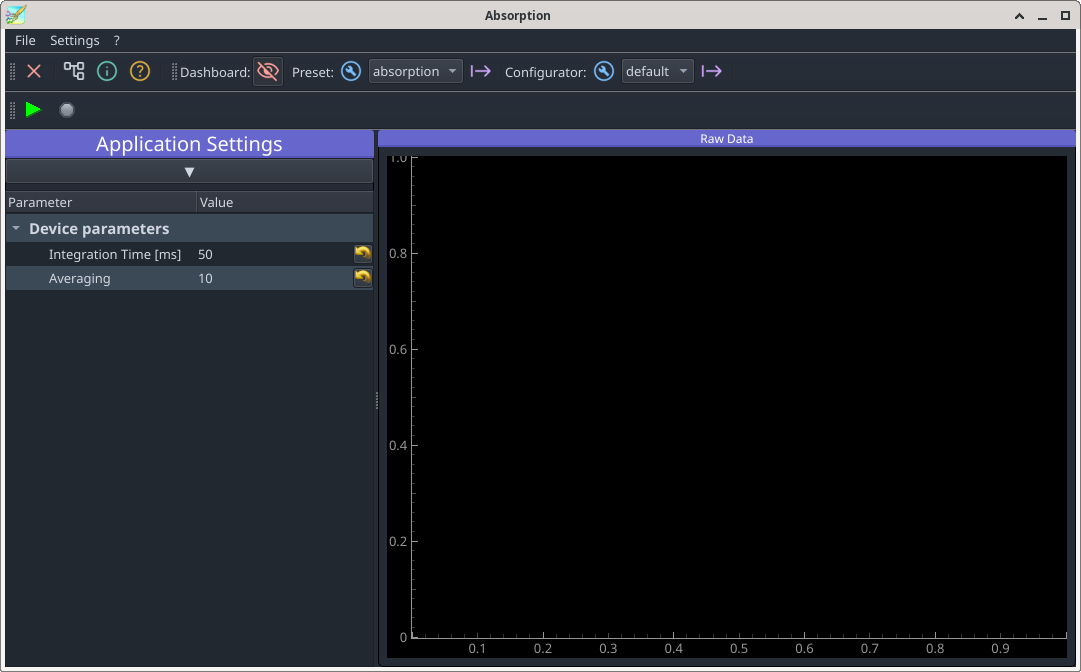
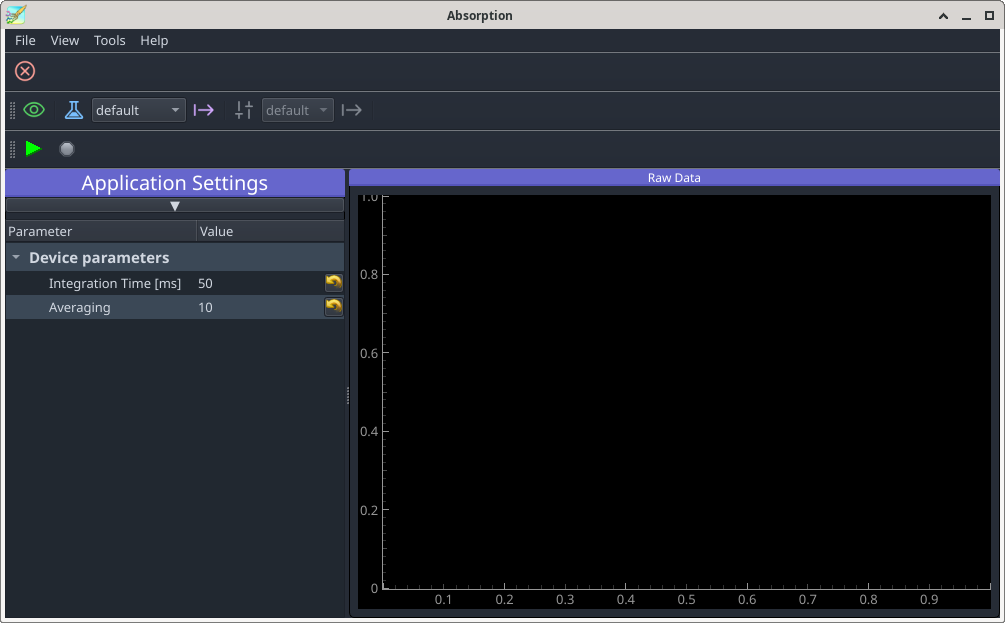
extension plugin finished

Changed region(s): [[0.0, 0.0, 1.0, 1.0]]

diff --git a/source/extension.rst b/source/extension.rst
@@ -204,14 +204,11 @@ Note that this introduces a bug. The dasboard is of course not aware of the func
 
 You may have noticed while playing around with the extension that it opens up with a size which is not very suitable. And changes to the window are not preserved over quitting the dashboard. Let's make changes so that the GUI geometry stays permanently. Two functions, inverse of each other, take care of writing the current parameter values and geometry settings to a configuration file and reading them back. This is done here in a preliminary fashion using Qt's settings mechanism. **@PyMoDAQxperts:** please replace this with more PyMoDAQonian style ...
 
-
 .. code-block::
 
     def write_settings(self, qt_settings):
         qt_settings.setValue("geometry", self.mainwindow.saveGeometry())
         qt_settings.setValue("dockarea", self.dockarea.saveState())
-        for name in self.settings_entries:
-            qt_settings.setValue(name, self.settings[name])
 
    def read_settings(self, qt_settings):
         geometry = self.qt_settings.value("geometry", QByteArray())
@@ -224,16 +221,14 @@ You may have noticed while playing around with the extension that it opens up wi
                 # erease inconsistent settings in case pyqtgraph trips
                 self.qt_settings.setValue("dockarea", None)
 
-        for name in self.settings_entries:
-            value = qt_settings.value(name, None)
-            if value is not None:
-                self.settings[name] = value
-
 To make this work, the two functions have to be hooked up into the initialisation and shut down procedures.
 
 .. code-block::
-   :emphasize-lines: 4-7,9-
+   :emphasize-lines: 1,2,7-10,12-
 
+    from qtpy.QtCore import QSettings, QByteArray
+    from pymodaq_utils.config import Config, ConfigError, get_set_config_dir
+    ...
     def __init__(self, parent: gutils.DockArea, dashboard):
         ...
         self.setup_ui()
@@ -245,17 +240,17 @@ To make this work, the two functions have to be hooked up into the initialisatio
     def quit_fun(self):
         self.write_settings(self.qt_settings)
 
-The first of the newly introduced lines in the init method returns a path to a subfolder :file:`gui-state` located in the user's PyMoDAQ configuration folder. If that subfolder doesn't exist yet it is created. GUI settings can go in there now. Have a try, resizing the extension window should now persist over shutting down and restarting the extension and the dashboard.
+The first of the newly introduced lines in the init method returns a path to a subfolder :file:`gui-state` located in the user's PyMoDAQ configuration folder. If that subfolder doesn't exist yet it is created. GUI settings can go in there now. Have a try, resizing the extension window should now persist over shutting down and restarting the extension and the dashboard. Note that this geometry sub-section may not be necessary in future versions of PyMoDAQ. An ongoing pull request may incorporate the feature into the custom app base class.
 
-The paramaters controlling the spectrometer are all accessible in the experiment and could be changed via the detector's widget in the dashboard. However, to ease operating the device, a set of most important parameters shall be displayed in the main window of the spectrometer application. They are declared in the preamble of the extension class in the same fashion as device parameters in the preamble of a plugin class. All parameters defined in :code:`params[]` are avaliable in :code:`self.settings_tree`.
+:code:`tag geometry`
+
+The paramaters controlling the spectrometer are all accessible in the experiment configuration and could be changed via the detector's widget in the dashboard, or using the configurator (try this out yourself as an exercice). However, to ease operation, a set of most important parameters shall be displayed in the main window of the spectrometer application. They are declared in the preamble of the extension class in the same fashion as device parameters in the preamble of a plugin class. All parameters defined in :code:`params[]` are made avaliable in :code:`self.settings_tree` by PyMoDAQ's start-up machinery.
 
 .. code-block::
-   :emphasize-lines: 23-25
+   :emphasize-lines: 3-14,19-21,25-
 
     class Absorption(CustomExt):
-
         ...
-
         params = [
             {'name': 'device_params', 'title': 'Device parameters', 'type': 'group',
              'children': [
@@ -268,9 +263,7 @@ The paramaters controlling the spectrometer are all accessible in the experiment
                ]
              },
            ]
-
         ...
-
         def setup_docks(self):
             self.create_dashboard_toolbar()
 
@@ -279,17 +272,18 @@ The paramaters controlling the spectrometer are all accessible in the experiment
             self.docks['settings'].addWidget(self.settings_tree)
 
             self.spectrum_label = DockLabel("Raw Data")
-            ...
+            spectrum_dock = Dock('Data', label=self.spectrum_label)
+            self.docks['spectrum'] = \
+                self.dockarea.addDock(spectrum_dock, "right",
+                                      self.docks['settings'])
 
-To make the detector aware of parameter changes, another predefined method has to be populated
+The newly introduced dock holds a parameter tree containing what has been defined in :code:`params`. Note the change in placing the data viewer at the right of the parameter dock. To make the detector aware of parameter changes, another predefined method has to be populated
 
 .. code-block::
-   :emphasize-lines: 6-
+   :emphasize-lines: 4-
 
     class Absorption(CustomExt):
-
     ...
- 
         def value_changed(self, param):
             if param.name() == "integration_time":
                 self.detector.settings.child('detector_settings',
@@ -309,18 +303,24 @@ The Absorption extension should now look like
 The parameter ``Average`` has not yet any effect. Let's change that. 
 
 .. code-block::
-   :emphasize-lines: 7-20,25,26,29-
+   :emphasize-lines: 1,3,8,9,13-28,30-
 
+    import numpy as np
+    ...
+    from pymodaq.utils.data import DataToExport, DataFromPlugins, Axis
+    ...
     class Absorption(CustomExt):
-
         ...
-
+        def start_acquiring(self):
+            self.n_samples = 0
+            self.n_average = self.settings.child('device_params')['averaging']
+            ...
         def take_data(self, data: DataToExport):
             spectro_data = data.get_data_from_dim('Data1D')[0]
             self.n_samples = self.accumulate_data(spectro_data[0], self.n_samples)
             if self.n_samples < self.n_average:
                 return
-            
+
             if self.n_average < 2:
                 self.spectrum_viewer.show_data(spectro_data)
                 return
@@ -328,17 +328,12 @@ The parameter ``Average`` has not yet any effect. Let's change that.
             self.mean_current, self.error_current = \
                 self.average_data(self.sum_data, self.squares_data, self.n_samples)
             self.n_samples = 0
-            dfp = DataFromPlugins(name=name, data=[self.mean_current, self.error_current],
-                                  dim='Data1D', labels=[name, 'error'], axes=[self.x_axis])
+            dfp = DataFromPlugins(name='current',
+                                  data=[self.mean_current, self.error_current],
+                                  dim='Data1D', labels=['current', 'error'],
+                                  axes=[self.x_axis])
             self.spectrum_viewer.show_data(dfp)
-
-        ....
-
-        def start_acquiring(self):
-            self.n_samples = 0
-            self.n_average = self.settings.child('device_params')['averaging']
-            ...
-
+        ...
         def accumulate_data(self, data, n_samples):
             if n_samples:
                 self.sum_data += data
@@ -355,6 +350,8 @@ The parameter ``Average`` has not yet any effect. Let's change that.
             return mean, error
 
 Zooming in on the error curve permits to see how the error scales now with :math:`\sqrt{n_\mathrm{average}}`.
+
+:code:`tag averaging`
 
 Once again, changes on the parameters do not survive quitting. One could write them to and recover them from a config file one by one. However, expecting the number of parameters to increase with time, it will be advantageous to prepare for that now. Since the device params are a dict inside a dict inside an array, it is easier to declare them in a separate list 
 
@@ -379,18 +376,22 @@ Once again, changes on the parameters do not survive quitting. One could write t
 
     ...
  
+        def write_settings(self, qt_settings):
+            ...
+            for param in self.device_params:
+                qt_settings.setValue(name,
+                                     self.settings.child('device_params') \
+                                     [param['name']])
+
         def read_settings(self, qt_settings):
             ...
             for param in self.device_params:
                 self.settings.child('device_params')[param['name']] = \
                     qt_settings.value(param['name'], param['value'])
-
-        def write_settings(self, qt_settings):
-            ...
-            for param in self.device_params:
-                qt_settings.setValue(name, 
-                                     self.settings.child('device_params')[param['name']])
+                                     
 
 The second argument of :code:`QSettings.value` is a default value which prevents a :code:`None` value being inserted when the entry asked for is not present in the configuration file, which would cause an exception to be raised.
 
-Until now, the extension still does nothing more than a bare plugin can do. Deatures beyond will be introduced in the next chapter.
+Until now, the extension still does nothing more than a bare plugin can do. Features beyond will be introduced in the next chapter.
+
+:code:`params-to-settings`
